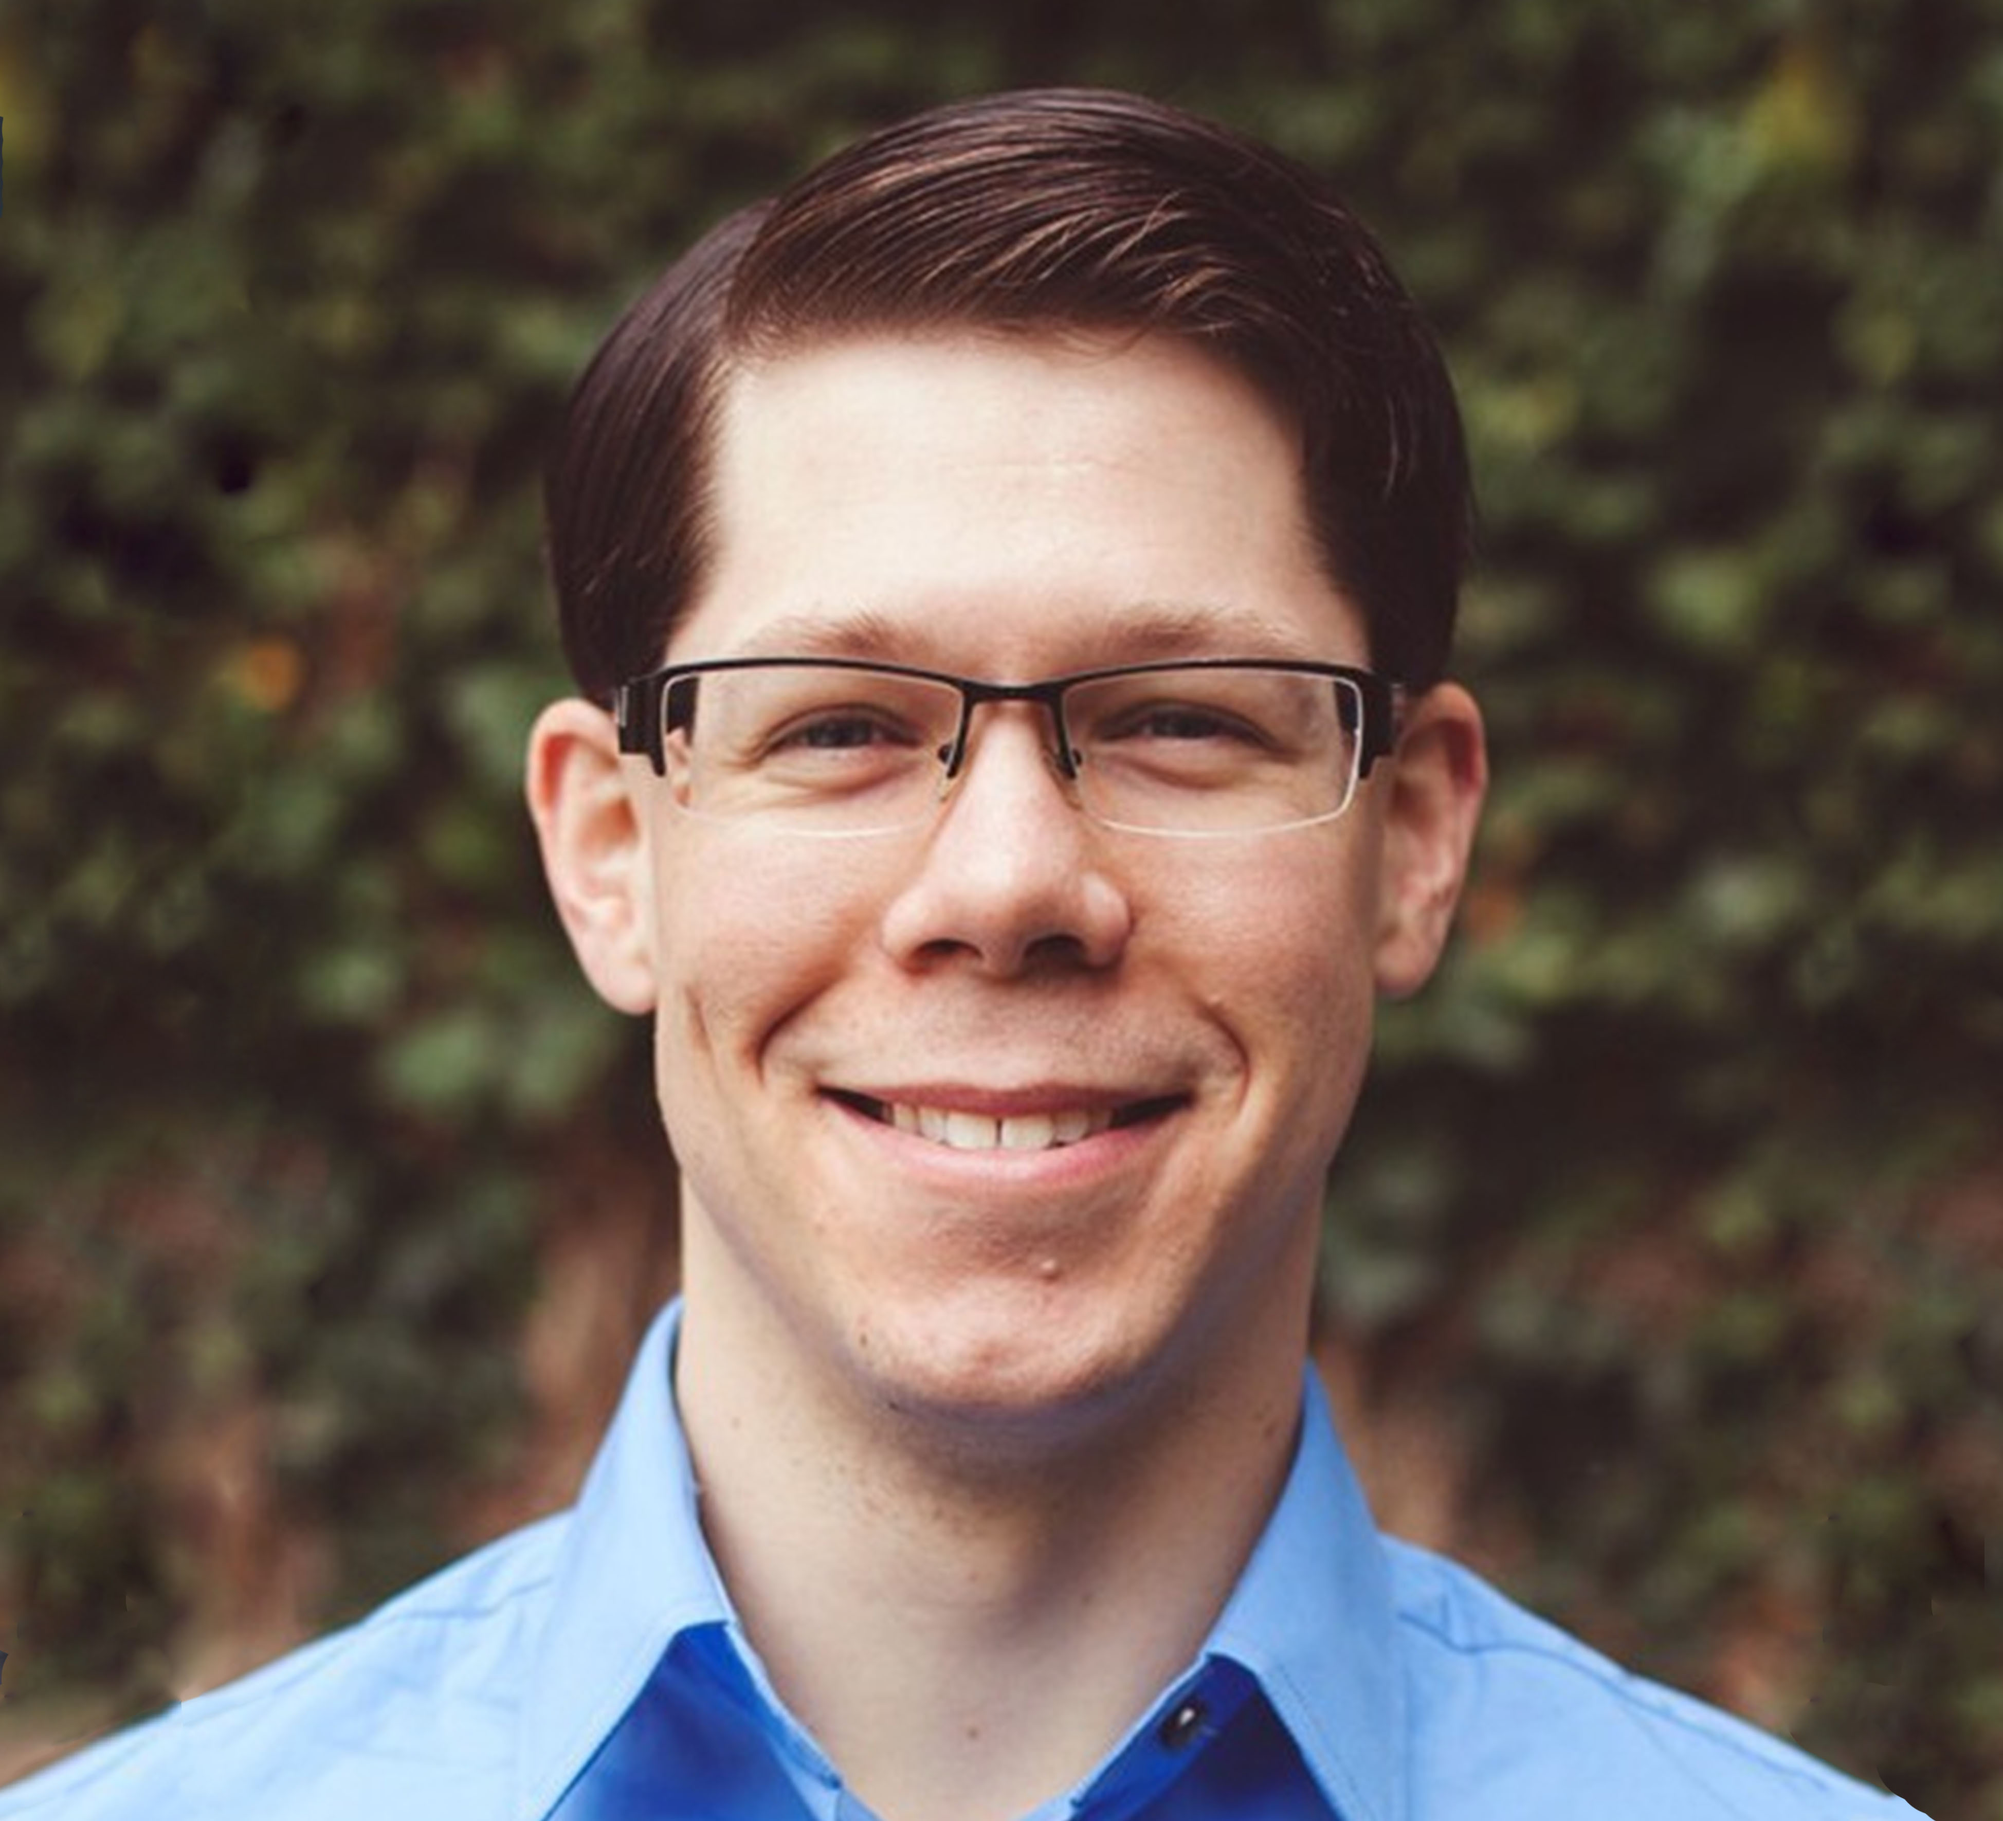
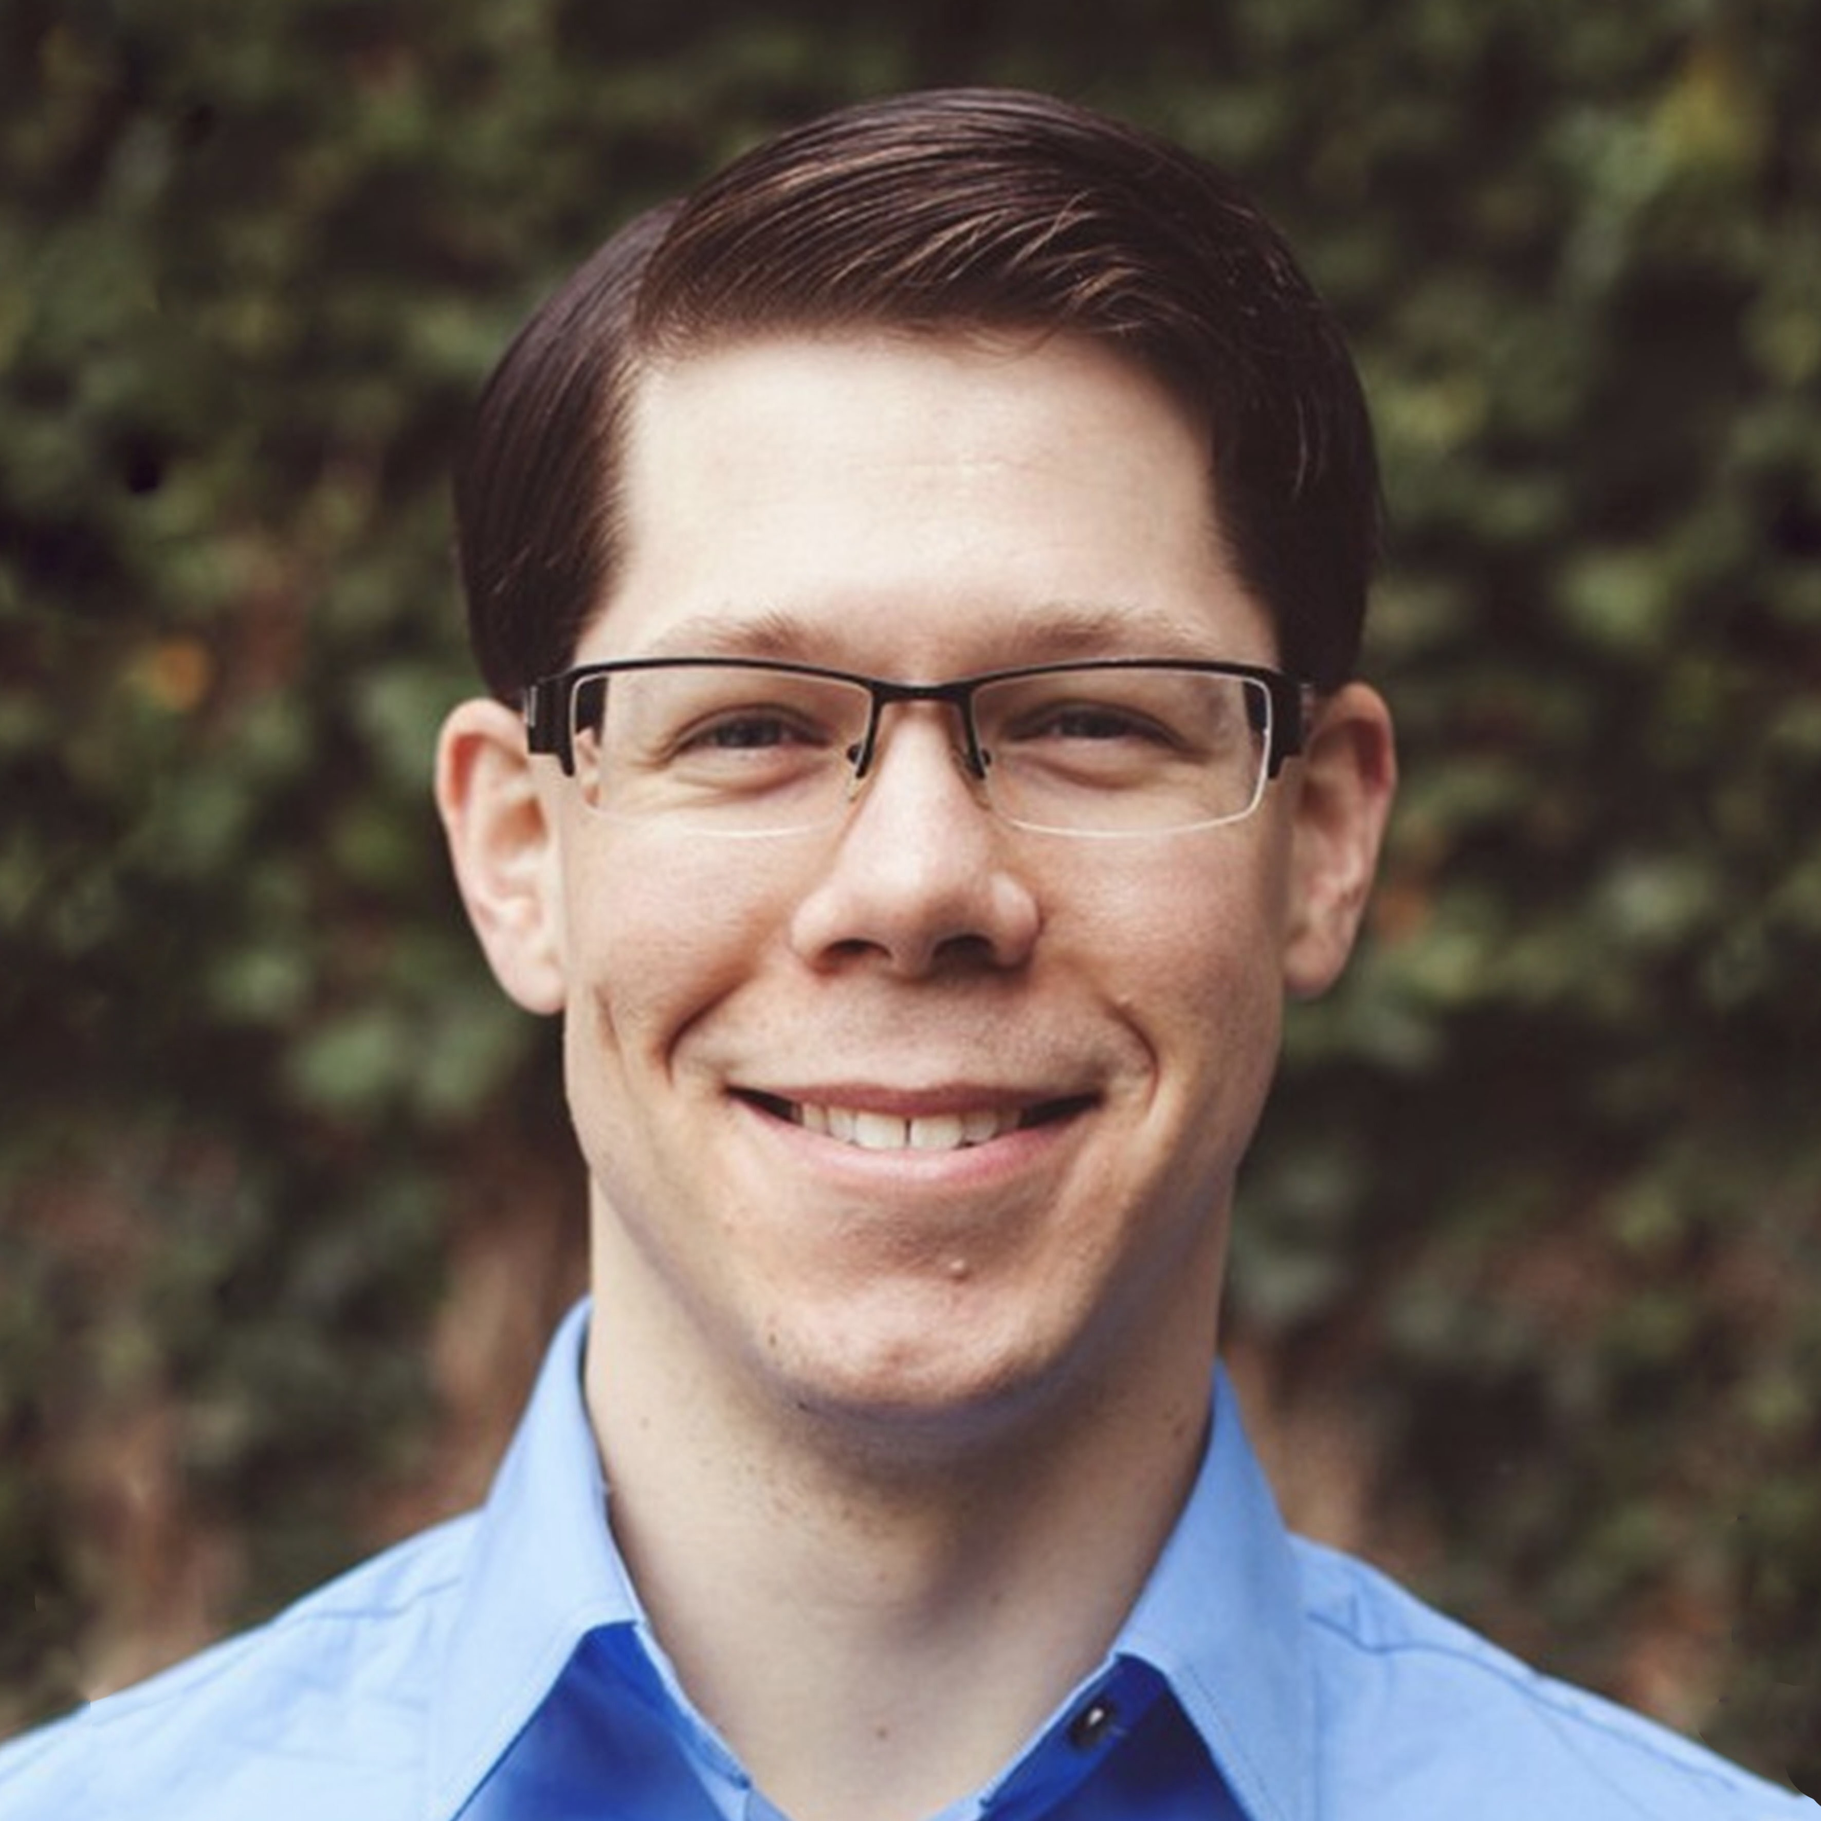
update aspect ratio and titles

diff --git a/marketing/src/content/config.ts b/marketing/src/content/config.ts
@@ -15,7 +15,9 @@ export const collections = {
         fullName: z.string(),
         suffix: z.string().optional(),
         position: z.string(),
-        image: image(),
+        image: image().refine((arg) => arg.height === arg.width, {
+          message: 'Image must be square (1:1 aspect ratio)'
+        }),
         description: z.string(),
         seniority: z.number().positive().int()
       })
